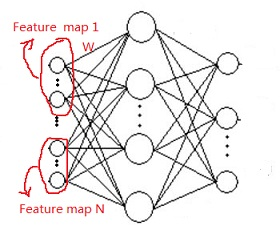
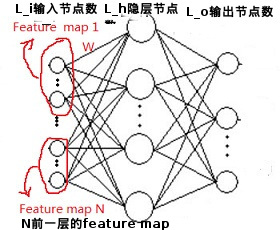
update

diff --git a/machine_learning/deep_learning/structure.md b/machine_learning/deep_learning/structure.md
@@ -32,10 +32,11 @@ Deep Learning的热潮是由2006年Hinton的[DBN](dbn.html)引发的，Deep Lear
 
 #### __Network in Network__    
 ---
-其与2014年在文章[6]中提出的,其主要贡献有两点:    
+其与2014年在文章[6]中提出的，本质上`就是在传统的CNN的卷积层后面再加上一层滤波核大小为1x1的卷积层`:    
 
-1. 使用`MLP(神经网路)`代替卷积层中的卷积滤波核，称其为mlpconv    
-如何将不同map之间的进行链接？
+1. 使用`MLP(神经网路)`代替卷积层中的卷积滤波核，称其为mlpconv, 如下图:       
+![image](./img/nin.jpg)    
+如上图，其将不同的Feature map的相同位置区域组合在一起作为输入，`其相当于在传统的CNN的卷积层(NxL_hx滤波核大小)后面再加上一层滤波核大小为1x1的（即L_hxL_ox1x1）的卷积层`
 2. 使用`全局平均采样`来代替CNN中的分类器层    
 即将最后一个Feature Map的大小设为类的个数，然后计算每个Feature Map里平均值，然后丢个softmax，其起到了`regularizer`的作用。
 
